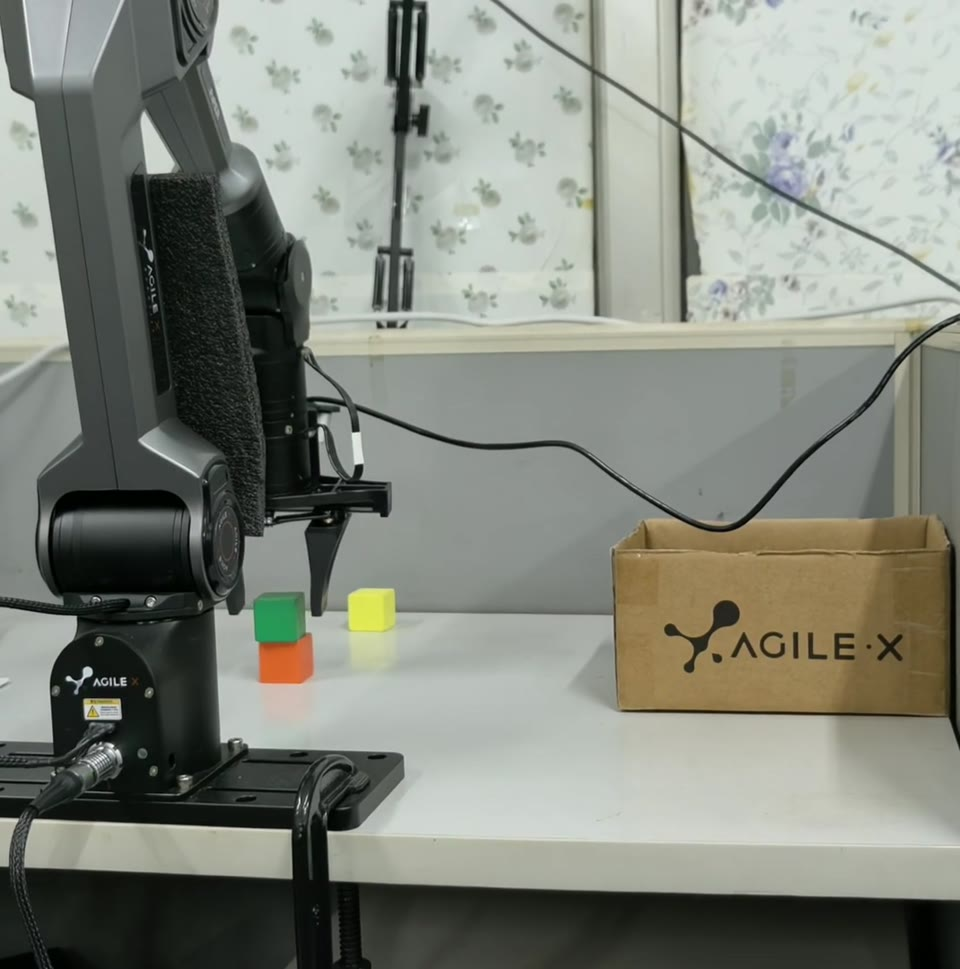
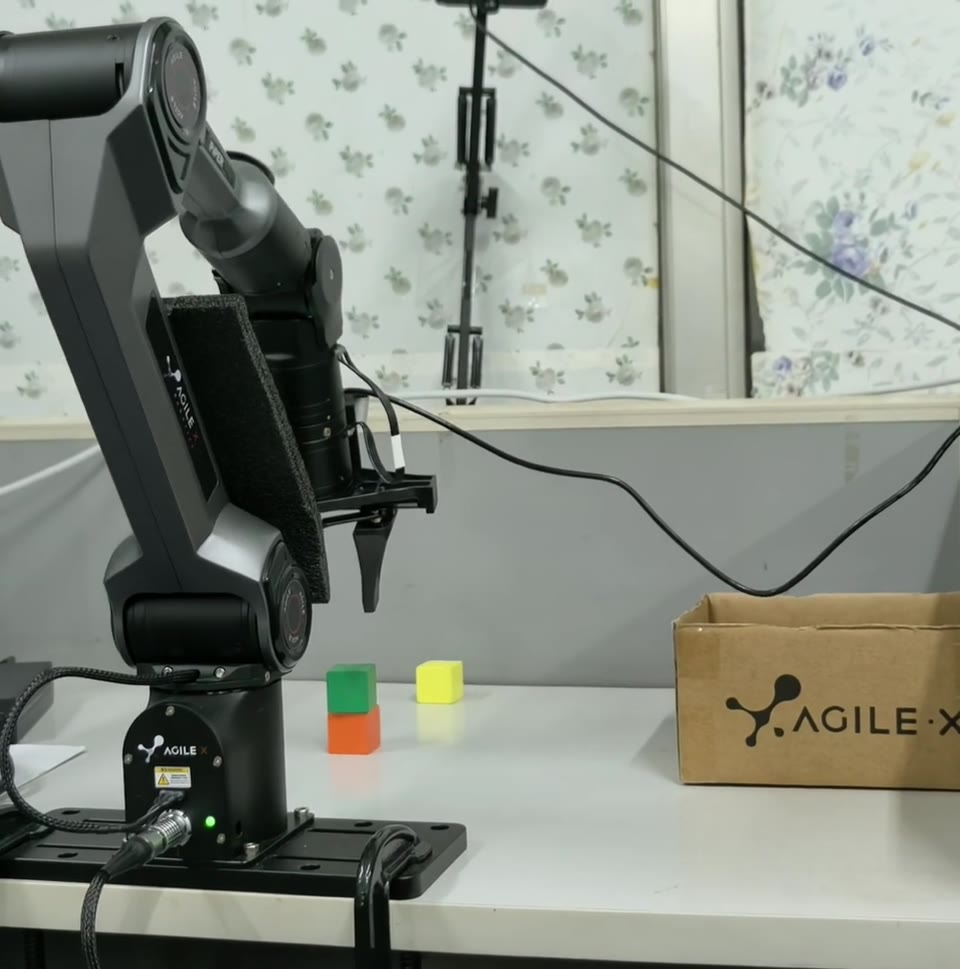
Rename demo sections; use end-frame (fully aligned stack) for stable demo thumbnail

diff --git a/README.md b/README.md
@@ -10,19 +10,19 @@
 
 ▶ **B 站完整版（两段连播）**：<https://www.bilibili.com/video/BV1sZWw6yEEF>
 
-## Demo 1 · 倒塌后自主恢复（无显式重试逻辑）
+## 方块掉落后自主重新抓取
 
 堆叠过程中方块倒塌 → 策略基于倒塌后的观测自主重新抓取 → 对位微调 → 重新堆叠成功。全程无人工干预；系统中没有重试状态机或异常检测模块，恢复行为来自策略对观测变化的响应。
 
-[![倒塌后自主恢复](./thumb_retry_after_collapse.jpg)](./block_stacking_retry_after_collapse.mp4)
+[![方块掉落后自主重新抓取](./thumb_retry_after_collapse.jpg)](./block_stacking_retry_after_collapse.mp4)
 
 ▶ 点击图片在线播放 · [直接打开视频文件](./block_stacking_retry_after_collapse.mp4)
 
-## Demo 2 · 高精度对位与稳定保持
+## 高精度对齐
 
 按颜色组合完成堆叠（绿叠橙），桌面其余方块为干扰物；放置后稳定保持到结尾。
 
-[![高精度对位与稳定保持](./thumb_stable_hold.jpg)](./block_stacking_stable_hold.mp4)
+[![高精度对齐](./thumb_stable_hold.jpg)](./block_stacking_stable_hold.mp4)
 
 ▶ 点击图片在线播放 · [直接打开视频文件](./block_stacking_stable_hold.mp4)
 
